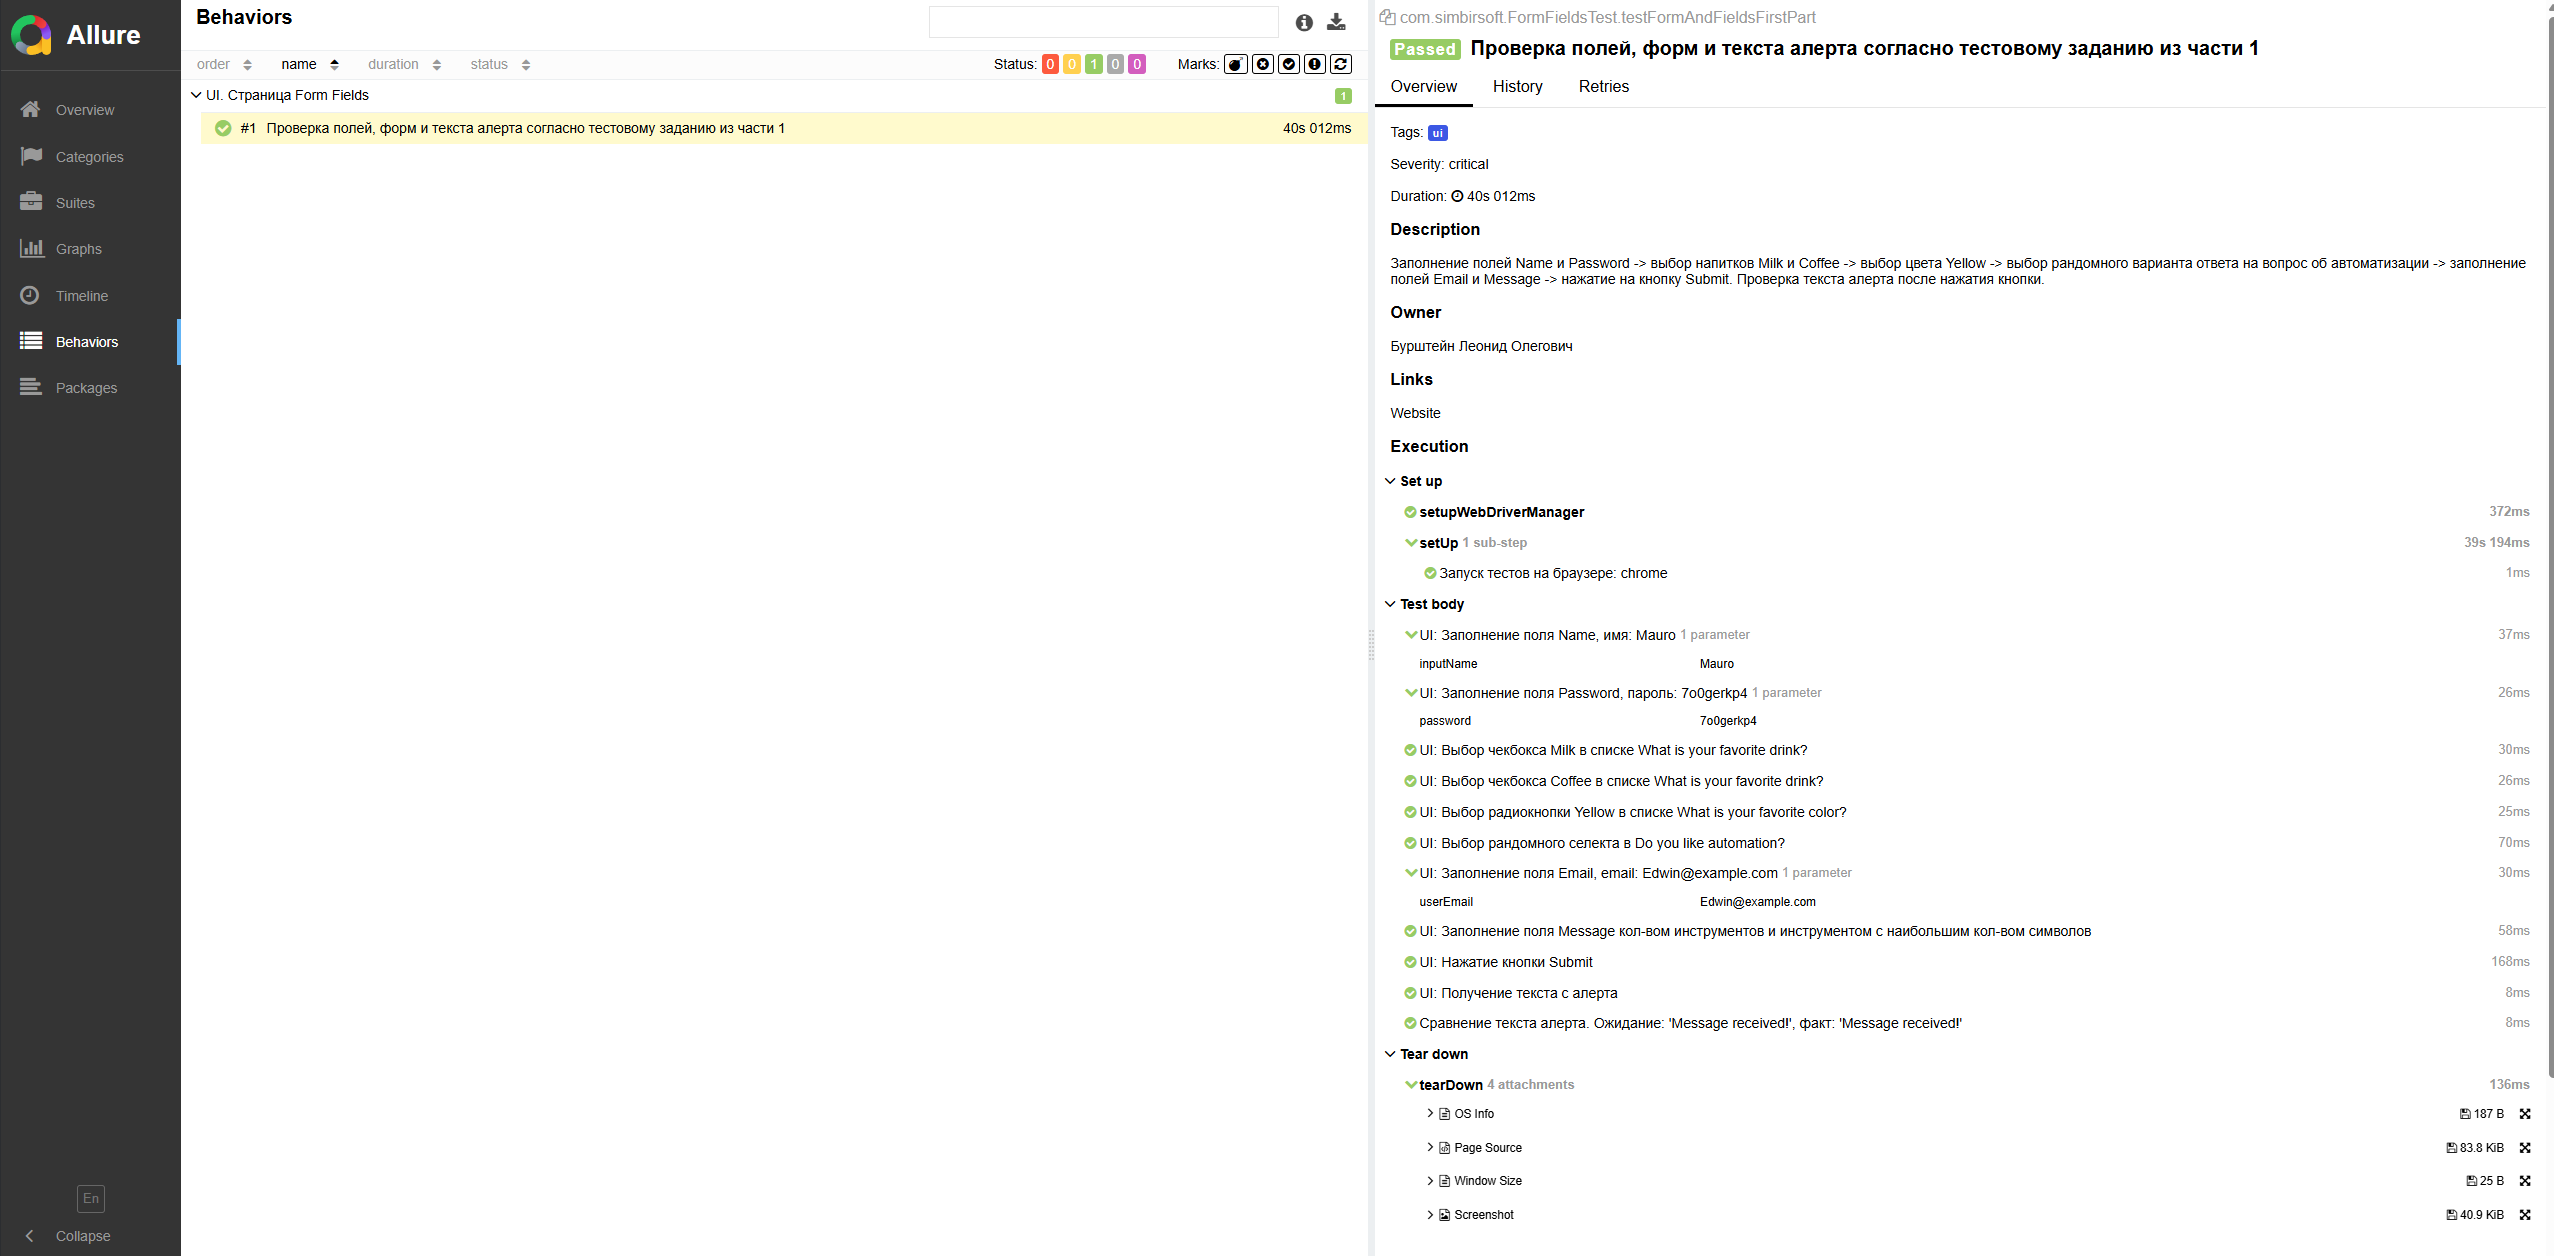
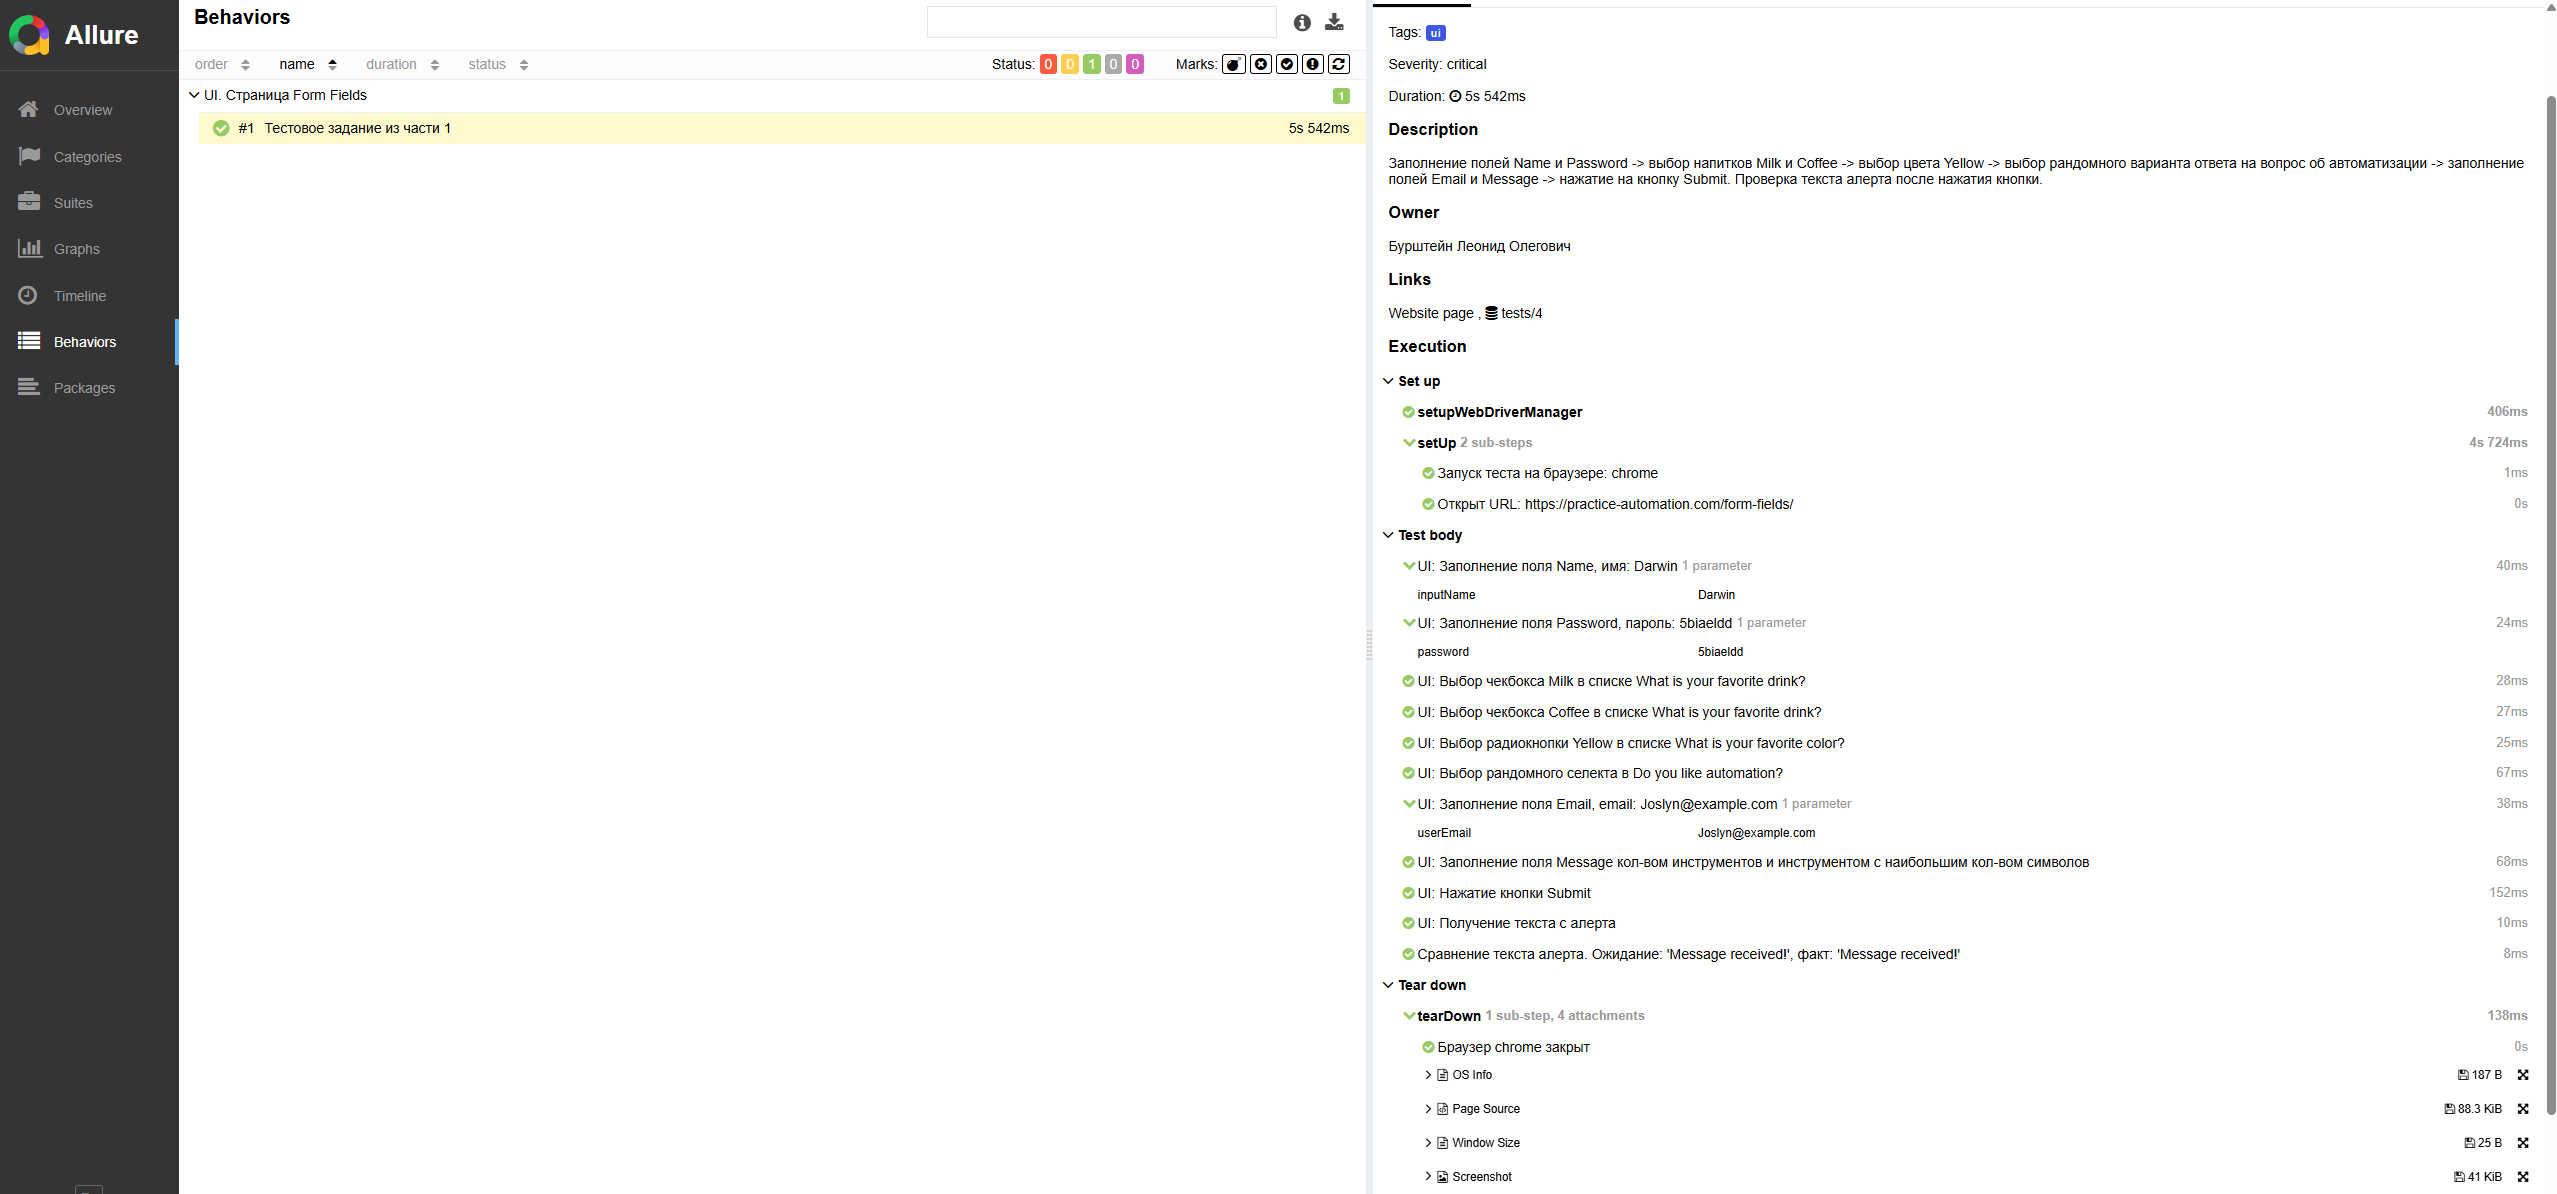
добавлены обновленные отчёты allure и скриншоты с тест кейсами, обновлен README.MD

Changed region(s): [[0.0, 0.0, 1.0, 0.9916]]

diff --git a/README.MD b/README.MD
@@ -15,10 +15,10 @@
 - **JavaFaker** — генерация тестовых данных (имена, email и др.).
 - **SLF4J Simple** — простой логгер для вывода информации о тестах.
 - **Owner** — конфигурация для properties-файлов.
+- **Test IT** — хранение и управление тестовыми сценариями.
 
 ## Структура проекта
-
-<pre>
+````
 test_task_sdet/
 ├─ .gradle/
 ├─ build/
@@ -49,35 +49,42 @@ test_task_sdet/
 ├─ gradlew.bat
 ├─ README.MD
 └─ settings.gradle.kts
-</pre>
+````
 
 # Руководство по началу работы с проектом
 
 ### I. Создай директорию для проекта и перейди в неё
 ### II. Склонируй проект в созданную директорию с GitHub:
-<pre><code>
+````
 git clone git@github.com:LeonidStein/simbirSoftSDET.git
-</code></pre>
+````
 ### III. Собери проект и запусти тесты (Тесты запускаются на Google Chrome):
-<pre><code>
+````
 ./gradlew build
-</code></pre>
+````
+*В случае возникновения ошибки Permission denied, выполни команду:*
+````
+chmod +x gradlew
+````
 ### IV. Просмотр Allure отчёта:
-<pre><code>
+````
 ./gradlew allureServe
-</code></pre>
+````
 
 # Тестовое задание
 ### Часть 1
-- **Наименование тестового метода** — testFormAndFieldsFirstPart, отчёт Allure:
+- **Наименование тестового метода** — testFormAndFieldsFirstPart, отчёт Allure и тест кейс в Test It:
 ![img.png](png/allure1.png)
+![img.png](png/testit1.png)
 
 ### Часть 2
-- **Наименование позитивного тестового метода** — testPositiveSecondPart, отчёт Allure:
+- **Наименование позитивного тестового метода** — testPositiveSecondPart, отчёт Allure и тест кейс в Test It:
 ![img.png](png/allure2.png)
+![img.png](png/testit2.png)
 
-- **Наименование негативного тестового метода** — testNegativeSecondPart, отчёт Allure:
-- **Примечание: Исходя из ТЗ был придуман кейс с негативным сценарием, т.к., данная страница не продумана для них:**
-    При заполнении обязательного поля Name пробелом или пробелами и после нажатии кнопки Submit
-    должен всплывать аллерт с сообщением: "Message not received!", но этого не происходит, **поэтому данный тест должен упасть.**
+- **Наименование негативного тестового метода** — testNegativeSecondPart, отчёт Allure и тест кейс в Test It:
+- **Примечание: На основании технического задания был разработан тестовый кейс с негативным сценарием.
+    При заполнении обязательного поля Name пробелом (или последовательностью пробелов) и последующем нажатии кнопки Submit должен отображаться алерт
+    с сообщением «Message not received!». **Фактически сообщение не соответствует ожидаемому, вследствие чего тест считается не пройденным.**
 ![img.png](png/allure3.png)
+![img.png](png/testit3.png)
